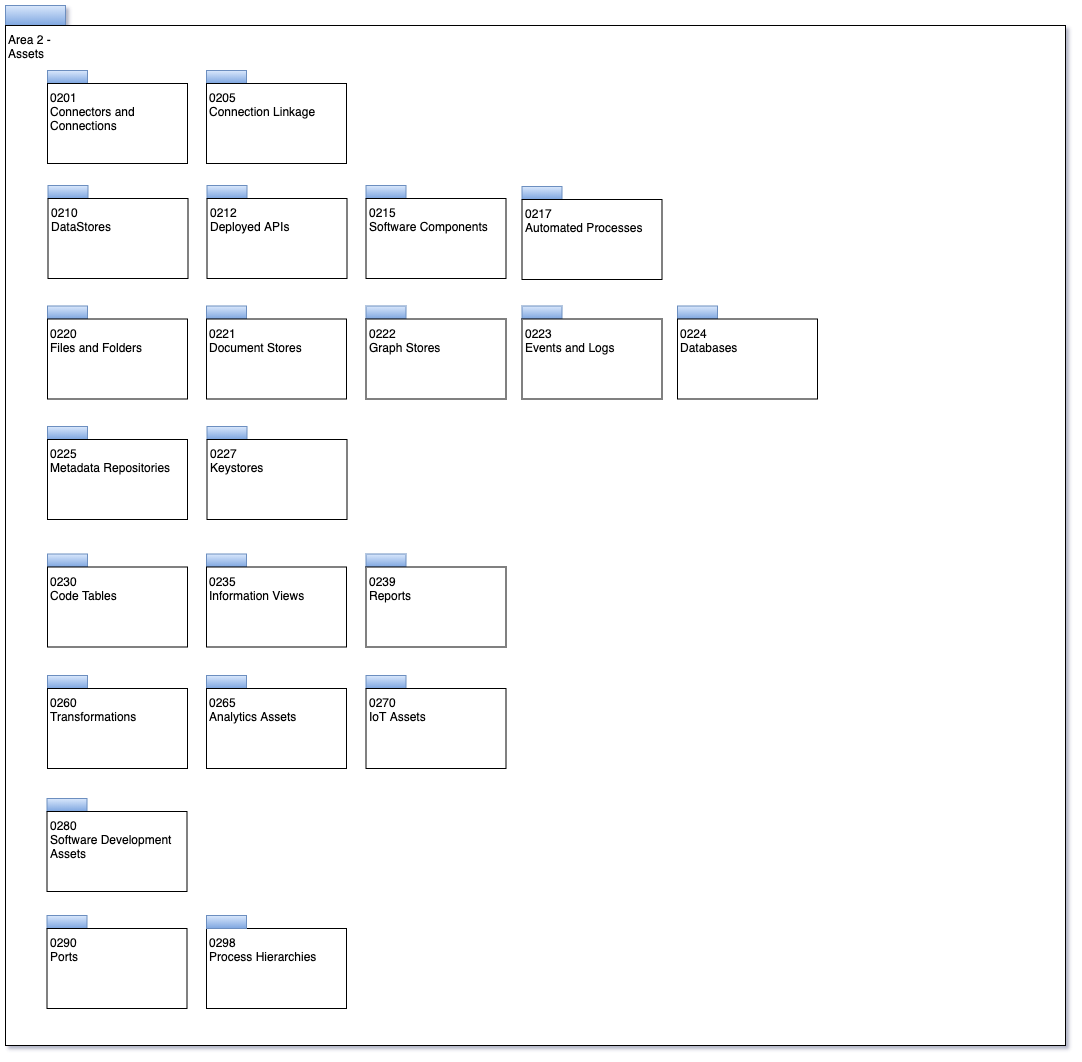
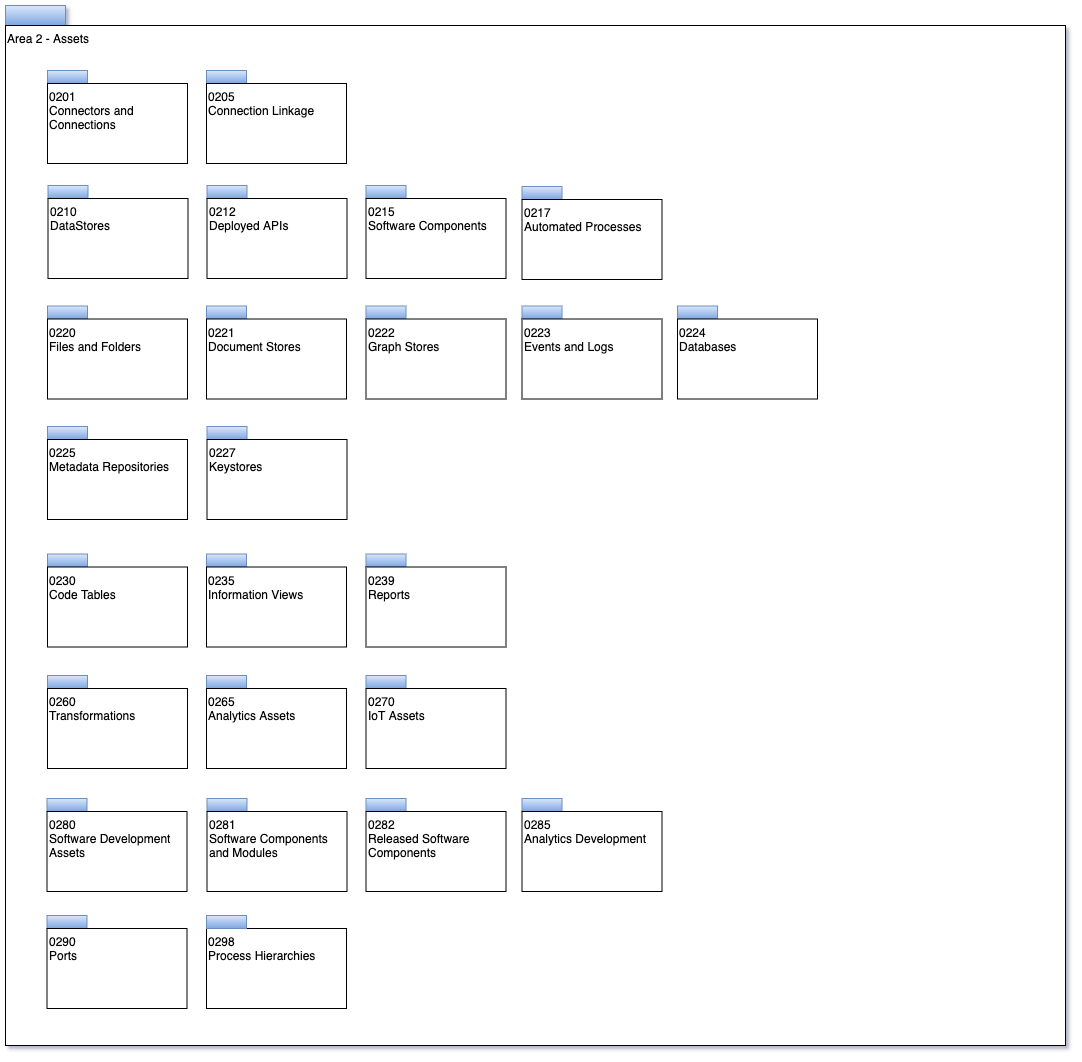
Add new open type descriptions

diff --git a/open-metadata-implementation/frameworks/governance-action-framework/docs/open-watchdog-service.md b/open-metadata-implementation/frameworks/governance-action-framework/docs/open-watchdog-service.md
@@ -1,12 +1,12 @@
 <!-- SPDX-License-Identifier: CC-BY-4.0 -->
 <!-- Copyright Contributors to the ODPi Egeria project. -->
 
-# Open Watchdog Engine
+# Open Watchdog Services
 
 Monitors changes in the metadata and initiates updates as a result.  One example of a
 watchdog service is duplicate detection. Another example is to monitor the addition of
 open discovery reports and take action on their content.  Examples of updates include
-creating RequestForAction instances.
+creating GovernanceAction instances.
 
 
 

diff --git a/open-metadata-publication/website/open-metadata-types/0265-Analytics-Assets.md b/open-metadata-publication/website/open-metadata-types/0265-Analytics-Assets.md
@@ -1,0 +1,15 @@
+<!-- SPDX-License-Identifier: CC-BY-4.0 -->
+<!-- Copyright Contributors to the ODPi Egeria project. -->
+
+# 0265 Analytics Assets
+
+This classification enables analytical
+components to be identified in lineage.
+
+![UML](0265-Analytics-Assets.png#pagewidth)
+
+Return to [Area 2](Area-2-models.md).
+
+----
+License: [CC BY 4.0](https://creativecommons.org/licenses/by/4.0/),
+Copyright Contributors to the ODPi Egeria project.

diff --git a/open-metadata-publication/website/open-metadata-types/0282-Released-Software-Components.md b/open-metadata-publication/website/open-metadata-types/0282-Released-Software-Components.md
@@ -1,0 +1,12 @@
+<!-- SPDX-License-Identifier: CC-BY-4.0 -->
+<!-- Copyright Contributors to the ODPi Egeria project. -->
+
+# 0282 Released Software Components
+
+![UML](0282-Released-Software-Components.png#pagewidth)
+
+Return to [Area 2](Area-2-models.md).
+
+----
+License: [CC BY 4.0](https://creativecommons.org/licenses/by/4.0/),
+Copyright Contributors to the ODPi Egeria project.

diff --git a/open-metadata-publication/website/open-metadata-types/0285-Analytics-Development-Assets.md b/open-metadata-publication/website/open-metadata-types/0285-Analytics-Development-Assets.md
@@ -1,0 +1,12 @@
+<!-- SPDX-License-Identifier: CC-BY-4.0 -->
+<!-- Copyright Contributors to the ODPi Egeria project. -->
+
+# 0285 Analytics Development Assets
+
+![UML](0285-Analytics-Development-Assets.png#pagewidth)
+
+Return to [Area 2](Area-2-models.md).
+
+----
+License: [CC BY 4.0](https://creativecommons.org/licenses/by/4.0/),
+Copyright Contributors to the ODPi Egeria project.

diff --git a/open-metadata-publication/website/open-metadata-types/0280-Software-Development-Assets.md b/open-metadata-publication/website/open-metadata-types/0280-Software-Development-Assets.md
@@ -1,0 +1,12 @@
+<!-- SPDX-License-Identifier: CC-BY-4.0 -->
+<!-- Copyright Contributors to the ODPi Egeria project. -->
+
+# 0280 Software Development Assets
+
+![UML](0280-Software-Development-Assets.png#pagewidth)
+
+Return to [Area 2](Area-2-models.md).
+
+----
+License: [CC BY 4.0](https://creativecommons.org/licenses/by/4.0/),
+Copyright Contributors to the ODPi Egeria project.

diff --git a/open-metadata-publication/website/open-metadata-types/0281-Software-Modules.md b/open-metadata-publication/website/open-metadata-types/0281-Software-Modules.md
@@ -1,0 +1,12 @@
+<!-- SPDX-License-Identifier: CC-BY-4.0 -->
+<!-- Copyright Contributors to the ODPi Egeria project. -->
+
+# 0281 Software Components and Modules
+
+![UML](0281-Software-Modules.png#pagewidth)
+
+Return to [Area 2](Area-2-models.md).
+
+----
+License: [CC BY 4.0](https://creativecommons.org/licenses/by/4.0/),
+Copyright Contributors to the ODPi Egeria project.

diff --git a/open-metadata-publication/website/open-metadata-types/0525-Process-Variables.md b/open-metadata-publication/website/open-metadata-types/0525-Process-Variables.md
@@ -1,0 +1,13 @@
+<!-- SPDX-License-Identifier: CC-BY-4.0 -->
+<!-- Copyright Contributors to the ODPi Egeria project. -->
+
+# 0525 Process Variables
+
+
+![UML](0525-Process-Variables.png#pagewidth)
+
+Return to [Area 2](Area-2-models.md).
+
+----
+License: [CC BY 4.0](https://creativecommons.org/licenses/by/4.0/),
+Copyright Contributors to the ODPi Egeria project.

diff --git a/open-metadata-publication/website/open-metadata-types/0465-Duplicate-Processing.md b/open-metadata-publication/website/open-metadata-types/0465-Duplicate-Processing.md
@@ -19,7 +19,7 @@ created the KnowDuplicateLink.
 
 * **PEER** - means the two elements have simply been linked together.
 * **CONSOLIDATED** - means that the element at end2 is an\element that has been created
-by consolidating the properties of a number of
+by consolidating the properties of a number of duplicate entities.
 
 
 Return to [Area 4](Area-4-models.md).
